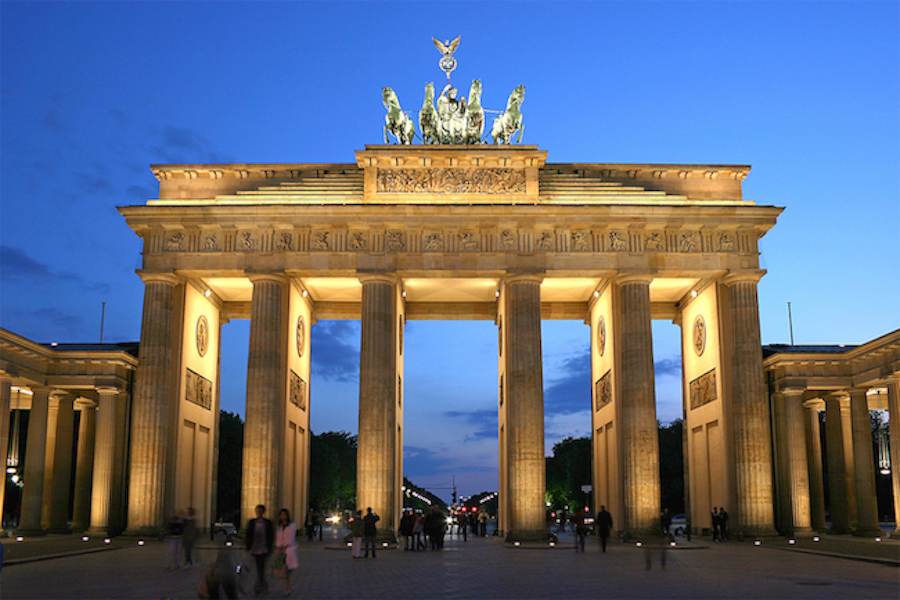
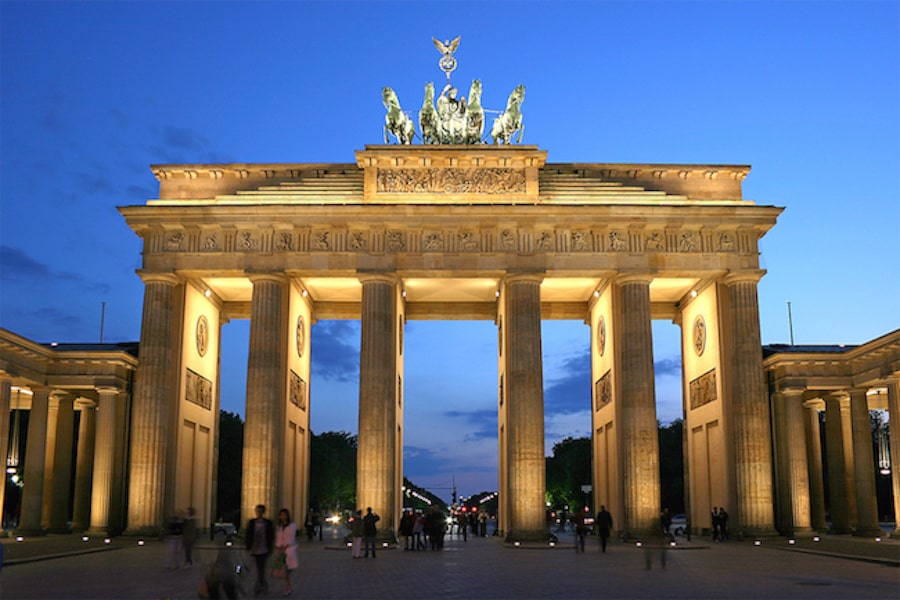
Adding some perfomace. Compressing images

diff --git a/resourses/css/style.css b/resourses/css/style.css
@@ -195,8 +195,8 @@ input[type=submit]{
 /*--------------------------------------------------*/
 
 header{
-    background-image: -webkit-gradient(linear, left top, left bottom, from(rgba(0,0,0,0.7)), to(rgba(0,0,0,0.7))), url(img/hero.jpg);
-    background-image: linear-gradient(rgba(0,0,0,0.7), rgba(0,0,0,0.7)), url(img/hero.jpg);
+    background-image: -webkit-gradient(linear, left top, left bottom, from(rgba(0,0,0,0.7)), to(rgba(0,0,0,0.7))), url(img/hero-min.jpg.jpg);
+    background-image: linear-gradient(rgba(0,0,0,0.7), rgba(0,0,0,0.7)), url(img/hero-min.jpg.jpg);
     background-size: cover;
     background-position: center;
     background-attachment: fixed;
@@ -425,8 +425,8 @@ header{
 /*--------------------------------------------------*/
 
 .section-testimonials{
-    background-image: -webkit-gradient(linear, left top, left bottom, from(rgba(0,0,0,0.8)), to(rgba(0,0,0,0.8))), url(img/back-customers.jpg);
-    background-image: linear-gradient(rgba(0,0,0,0.8), rgba(0,0,0,0.8)), url(img/back-customers.jpg);
+    background-image: -webkit-gradient(linear, left top, left bottom, from(rgba(0,0,0,0.8)), to(rgba(0,0,0,0.8))), url(img/back-customers-min.jpg.jpg);
+    background-image: linear-gradient(rgba(0,0,0,0.8), rgba(0,0,0,0.8)), url(img/back-customers-min.jpg.jpg);
     background-size: cover;
     color: #FFF;
     background-attachment: fixed;

diff --git a/index.html b/index.html
@@ -3,6 +3,8 @@
 
 <head>
     <meta charset="UTF-8">
+    <meta name="description" content="Omnifood is a premium food delivery service with the missio the bring affordable and healty meals 
+    to as many people as possible">
     <meta name="viewport" content="width=device-width, initial-scale=1.0">
     <link rel="stylesheet" href="resourses/css/style.css" type="text/css">
     <link rel="stylesheet" href="resourses/css/queries.css" type="text/css">
@@ -176,7 +178,7 @@
 
         <div class="row  js--wp-3">
             <div class="col span-1-of-4 box">
-                <img src="resourses/img/lisbon-3.jpg" alt="Lisbon">
+                <img src="resourses/img/lisbon.jpg" alt="Lisbon">
                 <h3>Lisbon</h3>
                 <div class="city-features">
                     <i class="ion-ios-person icon-small"></i>
@@ -224,7 +226,7 @@
                 </div>
             </div>
             <div class="col span-1-of-4 box">
-                <img src="resourses/img/lisbon-3.jpg" alt="Lisbon">
+                <img src="resourses/img/london.jpg" alt="Lisbon">
                 <h3>London</h3>
                 <div class="city-features">
                     <i class="ion-ios-person icon-small"></i>
